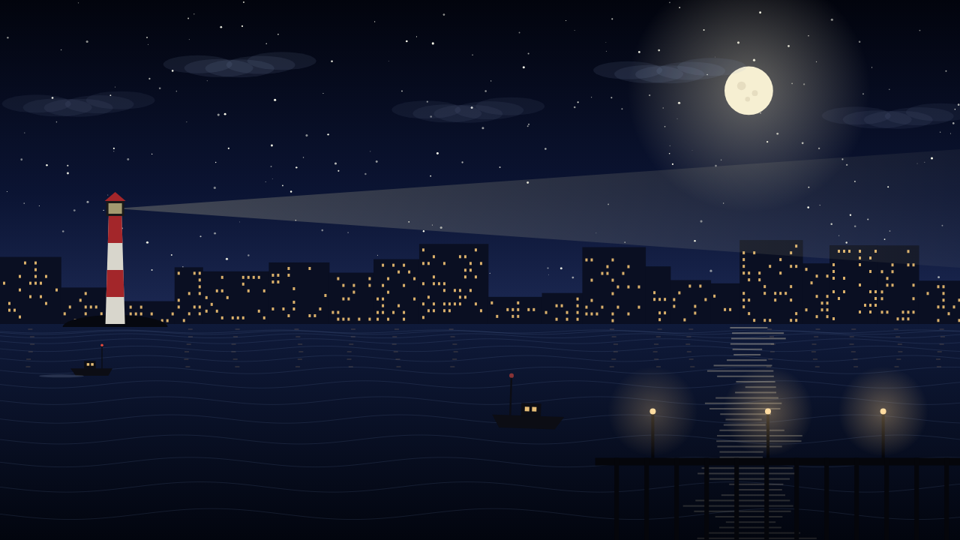
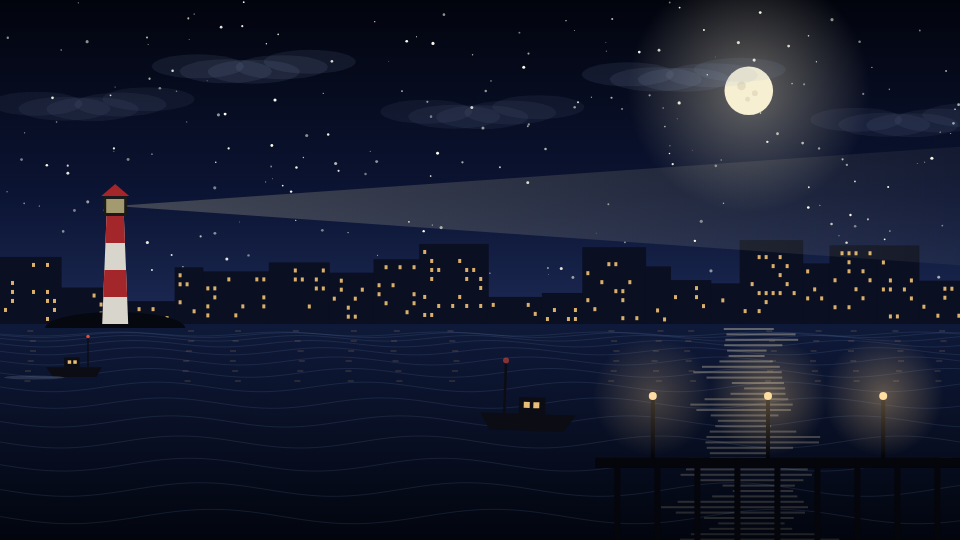
Fix review findings in the art-with-code lesson
- Step 2 builds the harbour in demo/harbour and ends with cd ../.., so
  Step 6's cd demo works when followed literally; Step 6 says where to
  start and spells out the skills check
- setup.sh fetches the pinned commit into a temp folder, verifies it,
  and only then installs, so a failed download leaves nothing behind;
  checks for git; the rerun message deletes only plain/ and with-skill/
- Poster dependencies go in a venv plus librsvg2-bin, replacing the pip
  line that fails on externally managed Pythons
- Warn about the permission prompt for the skill's scripts
- Expected output for the version checks, clone, SKILL.md and setup
- shoot.js runs from any folder, saves t*.png; screenshots regenerated
- Page: Common Grounds, 60-second example, setup in the 5-minute slot,
  canvas colour without color-mix
- Clean up, troubleshooting, cost and source of the JS Paint figures
  corrected; table row lists Node.js and a per-pair cost

Claude-Session: https://claude.ai/code/session_01BvHiUQ3fM3i9QRsMQLsexB

diff --git a/advanced/art-with-code/demo/art-by-code.html b/advanced/art-with-code/demo/art-by-code.html
@@ -115,7 +115,7 @@ svg text { fill: var(--muted); font: 12px var(--mono) }
       <p>Nobody types the art in. You describe a scene and its rules, Claude writes a program, and the program paints every frame. The useful part is what happens next: Claude opens the result in a headless browser (a real browser with no window, driven by a script), takes screenshots, looks at them, and fixes what looks wrong. Without that last step it is coding blind.</p>
     </div>
     <ol class="steps">
-      <li><strong>Set the rules</strong><span>For example: "No image files. Every motion loops every two minutes. Several looks you can switch live." Constraints like these shape the code more than the subject does.</span></li>
+      <li><strong>Set the rules</strong><span>For example: "No image files. Every motion loops every 60 seconds. Several looks you can switch live." Constraints like these shape the code more than the subject does.</span></li>
       <li><strong>Pick the engine</strong><span>Pixel art: a tiny canvas, say 480×270, drawn pixel by pixel in JavaScript and scaled up 4× to fill a 1080p screen. 3D: a shader, a small program the graphics card runs once for every pixel.</span></li>
       <li><strong>Render frozen frames</strong><span>A script opens the page in headless Chromium and saves screenshots of each look. A setting in the address such as <code>?t=30</code> freezes the animation at second 30, so every screenshot is repeatable.</span></li>
       <li><strong>Look and fix</strong><span>Claude reads its own screenshots and names problems a person would: edges look jagged, a colour is too dull, small details are too faint to see. Then it edits and renders again.</span></li>
@@ -253,7 +253,7 @@ const hue    = r() * 360;      // in the same order</pre>
     <div class="head"><span class="kicker">Steering the choices</span><h2>Can a skill fix taste?</h2></div>
     <div class="demo-grid" style="align-items:center">
       <div class="prose">
-        <p>A language model tends to produce what is most likely, given everything it has read. For a creative request, "most likely" means the middle of everything already made: the synthwave sunset poster, the mountain lake, the coffee shop called Daily Grind. It feels right because it's familiar.</p>
+        <p>A language model tends to produce what is most likely, given everything it has read. For a creative request, "most likely" means the middle of everything already made: the synthwave sunset poster, the mountain lake, the coffee shop called Common Grounds. It feels right because it's familiar.</p>
         <p><a href="https://github.com/mankidev/antialgorithm">antialgorithm</a> is a community-made Claude Code skill that tries to push the model off that peak. It doesn't add talent. It adds a procedure:</p>
         <ol>
           <li><b>Name the default.</b> "The default here is X." Then avoid X unless the brief demands it.</li>
@@ -284,8 +284,8 @@ const hue    = r() * 360;      // in the same order</pre>
     <div class="table-scroll"><table>
       <thead><tr><th>Time</th><th>What happens</th></tr></thead>
       <tbody>
-        <tr><td>Before class</td><td>The instructor reads the skill's files and checks it runs on a test machine. Every laptop runs the setup script (below).</td></tr>
-        <tr><td>5 min</td><td>Pairs pick two prompts and write down a predicted winner for each.</td></tr>
+        <tr><td>Before class</td><td>The instructor reads the skill's files and runs the setup on a test machine.</td></tr>
+        <tr><td>5 min</td><td>Everyone runs the setup script (below). Pairs pick two prompts and write down a predicted winner for each.</td></tr>
         <tr><td>20 min</td><td>Both partners run both prompts. Then each partner runs one of the two prompts twice more.</td></tr>
         <tr><td>10 min</td><td>Judge each pair of results with the table, scoring before reading Claude's explanations.</td></tr>
         <tr><td>15 min</td><td>Pool the tallies on the board and discuss.</td></tr>
@@ -445,6 +445,10 @@ void main() {
   const rc = document.getElementById('ridge'), rx = rc.getContext('2d');
   const seedv = document.getElementById('seedv'), seedn = document.getElementById('seedn');
   const mix = (a, b, k) => a.map((v, i) => Math.round(v + (b[i] - v) * k));
+  const hslRgb = (h, s, l) => { // HSL to [r, g, b], so the canvas gets a colour every browser understands
+    const f = (n) => { const k = (n + h / 30) % 12, a = s * Math.min(l, 1 - l); return 255 * (l - a * Math.max(-1, Math.min(k - 3, 9 - k, 1))); };
+    return [f(0), f(8), f(4)];
+  };
   const drawRidge = (seed) => {
     const r = rng(seed), W = rc.width, H = rc.height;
     const hueA = r() * 360, hueB = (hueA + 140 + r() * 80) % 360;
@@ -465,7 +469,7 @@ void main() {
       }
       rx.lineTo(W, H); rx.closePath();
       const c = mix(far, near, Math.pow(k, 0.8));
-      rx.fillStyle = `color-mix(in oklab, rgb(${c}) 82%, hsl(${hueA} 50% 30%))`;
+      rx.fillStyle = `rgb(${mix(hslRgb(hueA, 0.5, 0.3), c, 0.82)})`;
       rx.fill();
     }
   };

diff --git a/advanced/art-with-code/sample-output/harbour/shoot.js b/advanced/art-with-code/sample-output/harbour/shoot.js
@@ -1,19 +1,23 @@
+// Screenshots of harbour.html at t=0, 20, 40 and 60 seconds, saved next to this file.
+// Run with: node shoot.js   (needs Playwright: npm install playwright && npx playwright install chromium)
 const { chromium } = require('playwright');
 const path = require('path');
+const { pathToFileURL } = require('url');
+
 (async () => {
-  const round = process.argv[2] || '1';
-  const b = await chromium.launch();
-  const p = await b.newPage({ viewport: { width: 1280, height: 720 } });
-  const errs = []; p.on('pageerror', e => errs.push(e.message)); p.on('console', m => m.type()==='error' && errs.push(m.text()));
-  const url = 'file://' + path.resolve('harbour.html');
-  const bufs = {};
+  const page_url = pathToFileURL(path.join(__dirname, 'harbour.html')).href;
+  const browser = await chromium.launch();
+  const page = await browser.newPage({ viewport: { width: 960, height: 540 } });
+  const errors = [];
+  page.on('pageerror', (e) => errors.push(e.message));
+  page.on('console', (m) => m.type() === 'error' && errors.push(m.text()));
+  const shots = {};
   for (const t of [0, 20, 40, 60]) {
-    await p.goto(url + '?t=' + t);
-    await p.waitForTimeout(100);
-    const buf = await p.screenshot({ path: t < 60 ? `shot-r${round}-t${t}.png` : `seam-r${round}-t60.png` });
-    bufs[t] = buf;
+    await page.goto(`${page_url}?t=${t}`);
+    await page.waitForTimeout(100);
+    shots[t] = await page.screenshot({ path: path.join(__dirname, `t${t}.png`) });
   }
-  console.log('errors:', errs);
-  console.log('t0 == t60 bytes identical:', Buffer.compare(bufs[0], bufs[60]) === 0);
-  await b.close();
+  console.log('errors:', errors);
+  console.log('t0 == t60 (seamless loop):', Buffer.compare(shots[0], shots[60]) === 0);
+  await browser.close();
 })();

diff --git a/advanced/art-with-code/README.md b/advanced/art-with-code/README.md
@@ -21,7 +21,7 @@ Everything here was run for real on **2026-11-20** with:
 
 `demo/setup.sh` installs exactly that tested commit, `766e304`. The replies quoted below are the real ones from those runs. Yours will not be identical: Claude words things differently each time, and the skill rolls a random starting point on purpose.
 
-**Time:** about 60-90 minutes for the whole topic, or about 50 minutes for the class exercise alone. **Cost:** the two coffee shop runs cost $0.08 (plain) and $0.13 (with the skill). See [What it cost](#what-it-cost).
+**Time:** about 60-90 minutes for the whole topic, or about 50 minutes for the class exercise alone. **Cost:** a short prompt costs about $0.08 to $0.15 of Claude usage, a little more with the skill. Posters and the Step 2 harbour cost more; we didn't measure those. See [What it cost](#what-it-cost).
 
 ## The idea in one paragraph
 
@@ -33,9 +33,23 @@ You need:
 
 - Claude Code, working and logged in.
 - **A browser.** Any recent Chrome, Edge, Firefox or Safari opens the interactive page.
-- **git.** Check with `git --version`.
-- **Python 3** for the skill's scripts. Check with `python3 --version`. For the poster prompt the skill also wants numpy, Pillow and either `rsvg-convert` or the cairosvg package: `python3 -m pip install numpy pillow cairosvg`.
-- **Node.js** if you want to run the starter prompt in Part 1, because Claude uses Playwright, a library for controlling a browser from code, to take its screenshots. Check with `node --version`. Claude Code can install Playwright itself when it needs it.
+- **git**, **Python 3** and, for Step 2, **Node.js**. Check all three:
+
+```bash
+git --version
+python3 --version
+node --version
+```
+
+Expected output (your version numbers may be higher):
+
+```
+git version 2.43.0
+Python 3.13.18
+v22.23.5
+```
+
+If one is missing: git is set up in [week 3](../../weeks/03-git-and-github/), and Node.js in [week 5, step 3d](../../weeks/05-building-with-ai/#3-pick-your-tools). Node.js is only needed for Step 2, where Claude uses Playwright, a library for controlling a browser from code, to take its screenshots. Claude Code can install Playwright itself when it needs it.
 
 On Windows, use WSL.
 
@@ -48,7 +62,15 @@ git clone https://github.com/vasuchettyphd/ai-dev-course.git
 cd ai-dev-course/advanced/art-with-code
 ```
 
-Then open `demo/art-by-code.html` in your browser (double-click it, or drag it into a browser window). On WSL, run `explorer.exe demo/art-by-code.html` to open it in your Windows browser.
+Expected output:
+
+```
+Cloning into 'ai-dev-course'...
+```
+
+(If you already cloned the course earlier in the semester, run `git pull` inside it instead, then `cd advanced/art-with-code`.)
+
+Then open `demo/art-by-code.html` in your browser (double-click it, or drag it into a browser window). On WSL, run `explorer.exe demo/art-by-code.html` to open it in your Windows browser; it prints nothing, and the page opens in your default browser.
 
 It works offline. The only thing it fetches is its fonts; without a connection it falls back to your system fonts. The planet needs WebGL, which every current browser has. If your browser has it turned off, the page says so and the rest still works.
 
@@ -56,13 +78,15 @@ It works offline. The only thing it fetches is its fonts; without a connection i
 
 Nobody types the art in. You describe a scene and its rules, Claude writes a program, and the program paints every frame. The important part is what comes next: Claude opens the page in a *headless* browser (a real browser with no window, driven by a script), takes screenshots, looks at them and fixes what's wrong. Without that, it is coding blind.
 
-Try it. Make a folder and start Claude Code there:
+Try it. From `advanced/art-with-code`, make a folder and start Claude Code there:
 
 ```bash
-mkdir -p demo/practice/harbour
-cd demo/practice/harbour
+mkdir -p demo/harbour
+cd demo/harbour
 claude
 ```
+
+(`demo/harbour/` is ignored by git, so your harbour stays out of the course repo.)
 
 Then paste this prompt:
 
@@ -81,7 +105,15 @@ What happened in our run, which took two rounds:
 - **Round 1:** no errors, and the t=60 screenshot matched t=0 byte for byte, so the loop was seamless. But two things looked frozen. The lighthouse beam turned exactly 6 times a minute, once every 10 seconds, so it pointed the same way at 0, 20 and 40 seconds. The clouds were spaced a third of the screen apart and moved a third every 20 seconds, so they looked the same too. Claude changed the beam to 5 turns a minute and spaced the clouds unevenly.
 - **Round 2:** the beam and clouds now differ between shots, and the loop check still passed.
 
-The result is in `sample-output/harbour/`: the page (`harbour.html`, about 10 KB), the screenshot script Claude wrote (`shoot.js`), and the screenshots at t=0, 20, 40 and 60. Notice that `t0.png` and `t60.png` are the same picture. Your harbour will look different.
+The result is in `sample-output/harbour/`: the page (`harbour.html`, about 10 KB), the screenshot script Claude wrote (`shoot.js`, tidied so it runs from any folder), and the four 960 × 540 screenshots it saves, `t0.png`, `t20.png`, `t40.png` and `t60.png`. Notice that `t0.png` and `t60.png` are the same picture. Your harbour will look different.
+
+When you're done, type `/exit` to leave Claude Code, then go back to the lesson folder:
+
+```bash
+cd ../..
+```
+
+You are now in `advanced/art-with-code` again.
 
 ## Step 3: seeds and loops
 
@@ -136,11 +168,11 @@ What made the real runs work, and what they cost:
 - **A locked box.** The paint program ran in Docker with no network, as a user with no special permissions. Shortcuts that would close or reload the page were refused by the driver.
 - **A spending cap.** Every screenshot costs *tokens*, the units the API bills by. The loop counted dollars from each reply and stopped before a set limit.
 - **Notes instead of memory.** After about 30 screenshots the conversation gets heavy, so Claude wrote notes to itself and a fresh conversation started from them, with the canvas kept.
-- **The numbers.** Real runs took 58 to 707 strokes, 7 to 26 minutes and $0.46 to $4.07.
+- **The numbers.** Three runs of the instructor's own JS Paint project (not part of this course) took 58 to 707 strokes, 7 to 26 minutes and $0.46 to $4.07.
 
 You don't run this one: it needs an Anthropic API key with credit, Docker and a custom driver. The point is to see a different way of working. Code is fast and cheap but needs a program; computer use is slow and costly but works with any app a person can use.
 
-One more thing to notice. Asked for a masterpiece with no other direction, separate runs on different models all painted the same subject: a sunset over a mountain lake. The sample replay paints one too. That is the "average pick" the next step is about.
+One more thing to notice. Asked for a masterpiece with no other direction, those runs, on two different Claude models, all painted the same subject: a sunset over a mountain lake. The sample replay paints a sunset too. That is the "average pick" the next step is about.
 
 ## Step 6: the antialgorithm skill, with and without
 
@@ -156,7 +188,7 @@ A language model tends to produce what is most likely, given everything it has r
 
 ### Setup
 
-The setup script makes two empty practice folders and installs the skill into one of them only:
+The setup script makes two empty practice folders and installs the skill into one of them only. From `advanced/art-with-code`:
 
 ```bash
 cd demo
@@ -171,12 +203,24 @@ Ready:
   /home/you/ai-dev-course/advanced/art-with-code/demo/practice/with-skill   (antialgorithm 766e304 in .claude/skills/antialgorithm/)
 ```
 
-A skill in a folder's `.claude/skills/` is only visible to Claude Code sessions started in that folder, so `plain/` never sees it. Upstream's own install command, `git clone https://github.com/mankidev/antialgorithm ~/.claude/skills/antialgorithm`, puts it in your user-wide skills folder instead, where every session on your computer would get it, plain ones included. Don't use that for this exercise.
+The script downloads the exact tested commit and checks it before installing anything; if the download fails, it stops and leaves nothing behind. A skill in a folder's `.claude/skills/` is only visible to Claude Code sessions started in that folder, so `plain/` never sees it. Upstream's own install command, `git clone https://github.com/mankidev/antialgorithm ~/.claude/skills/antialgorithm`, puts it in your user-wide skills folder instead, where every session on your computer would get it, plain ones included. Don't use that for this exercise.
 
 **Read the skill before you use it.** It runs Python scripts on your computer, so look first:
 
 ```bash
 cat practice/with-skill/.claude/skills/antialgorithm/SKILL.md
+```
+
+The first lines (the rest is about 100 lines of plain English):
+
+```
+---
+name: antialgorithm
+description: 'Stops the safe, average, comfortable pick that AI reaches for first. ...
+---
+```
+
+```bash
 ls practice/with-skill/.claude/skills/antialgorithm/scripts
 ```
 
@@ -184,15 +228,54 @@ ls practice/with-skill/.claude/skills/antialgorithm/scripts
 check.py  history.py  moves.py  rough.py  seed.py
 ```
 
-We read all five scripts. They only read and write files inside the skill's own folder and a temporary folder, render SVGs, and make no network calls.
+We read all five scripts. They make no network calls and nothing runs until Claude calls them. `seed.py` and `moves.py` keep a small `history.jsonl` inside the skill's folder; `check.py` renders SVGs into your system's temporary folder (under `antialgorithm_check/`) and calls the `rsvg-convert` program if you have it.
 
-**Check that it loaded.** Start Claude Code in each folder and ask:
+**For the poster prompt only**, `check.py` also needs numpy, Pillow and `rsvg-convert`. Install them in a virtual environment (a private Python folder for this lesson) so nothing changes system-wide. From `demo/`, on WSL or Ubuntu:
+
+```bash
+python3 -m venv .venv
+. .venv/bin/activate
+pip install numpy pillow
+sudo apt update && sudo apt install -y librsvg2-bin
+```
+
+On a Mac, use `brew install librsvg` for the last line (we did not test the Mac route). Check it worked:
+
+```bash
+python3 -c "import numpy, PIL; print('ok')"
+rsvg-convert --version
+```
+
+```
+ok
+rsvg-convert version 2.58.0
+```
+
+Run `. .venv/bin/activate` again in any new terminal before you start `claude` for a poster, so Claude's `python3` finds those packages.
+
+**Check that it loaded.** From `demo/`, start Claude Code in the skill folder:
+
+```bash
+cd practice/with-skill
+claude
+```
+
+Ask:
 
 ```
 Which skills do you have available? List their names only, one per line.
 ```
 
-In `practice/with-skill`, the list includes `antialgorithm`. In `practice/plain`, it does not. (Both lists also show the skills that come with Claude Code.)
+The list includes `antialgorithm`, along with any other skills you already have. Type `/exit`, then try the plain folder:
+
+```bash
+cd ../plain
+claude
+```
+
+Ask the same question. This time `antialgorithm` is not in the list. Type `/exit` and go back with `cd ../..` (you are in `demo/` again).
+
+**Expect a permission question.** In `with-skill`, Claude will ask to run the skill's scripts, for example `python3 .claude/skills/antialgorithm/scripts/seed.py visual`. You read those scripts above, so choose to allow it. If you say no, the skill still works but makes up its own starting point instead of rolling one.
 
 ### One run, for real
 
@@ -224,7 +307,7 @@ The skill's procedure is visible in the reply: it named the default it was avoid
 
 ### The class exercise (about 50 minutes)
 
-Work in pairs. One person is **Plain** and works in `practice/plain`; the other is **Skill** and works in `practice/with-skill`. You both give the same prompts, then put the results side by side, labelled, and judge them together. This is not a blind test, so each pair first writes down which side they expect to win; that shows the class its own bias.
+Work in pairs. One person is **Plain** and starts `claude` in `demo/practice/plain`; the other is **Skill** and starts `claude` in `demo/practice/with-skill`. Both run `./setup.sh` on their own laptop first. You both give the same prompts, then put the results side by side, labelled, and judge them together. This is not a blind test, so each pair first writes down which side they expect to win; that shows the class its own bias.
 
 | Time | What happens |
 |---|---|
@@ -292,7 +375,7 @@ Rows 1 and 2 and the surprise score only measure "different". "Does it do its jo
 | Coffee shop, plain | $0.08 | 3 s |
 | Coffee shop, with the skill | $0.13 | 10 s |
 
-The skill run cost more because it reads its instructions and runs its seed script before answering. Posters cost more on both sides, and the skill side most, because it renders and checks the SVG. We did not measure the starter prompt in Step 2 with Claude Code's cost counter: type `/cost` in your session afterwards to see yours. The class exercise is about 10 to 14 runs per pair.
+A student re-running the same two prompts got $0.08 and $0.15. The skill run costs more because it reads its instructions and runs its seed script before answering. Posters cost more on both sides, and the skill side most, because it renders and checks the SVG; we did not measure those, or the Step 2 harbour, with Claude Code's cost counter. Type `/cost` in your session afterwards to see yours. The class exercise is about 10 to 14 runs per pair, so with short prompts expect roughly $1 to $2 per pair, more if one prompt is a poster.
 
 ## Limits and caveats
 
@@ -304,9 +387,10 @@ The skill run cost more because it reads its instructions and runs its seed scri
 
 ## Troubleshooting
 
-- **`setup.sh` says `practice already has plain/ or with-skill/`.** You ran it before. Delete the old folders with `rm -rf practice` (from `demo/`) and run it again.
+- **`setup.sh` says `.../demo/practice already has plain/ or with-skill/. Delete them first: rm -rf ...`.** You ran it before. Run the `rm -rf` command it prints (it deletes only those two folders), then run `./setup.sh` again.
+- **`setup.sh` says `Could not download antialgorithm commit 766e304`.** Check your internet connection and try again. If it keeps failing, tell your instructor: the commit may have been removed upstream.
 - **`with-skill` doesn't list antialgorithm.** Make sure you started `claude` inside `demo/practice/with-skill`, not a parent folder, and that `.claude/skills/antialgorithm/SKILL.md` exists there.
-- **The poster run fails at `check.py`.** Install the Python packages: `python3 -m pip install numpy pillow cairosvg`.
+- **The poster run fails at `check.py`.** Set up the virtual environment from Step 6 and run `. .venv/bin/activate` before starting `claude`. If `pip install` said `externally-managed-environment`, you skipped the `python3 -m venv .venv` line.
 - **The planet on the page says WebGL isn't available.** Turn on hardware acceleration in your browser's settings, or try another browser. The rest of the page works without it.
 - **Claude says it can't take screenshots in Step 2.** Let it install Playwright when it asks (`npm install playwright` and `npx playwright install chromium`).
 
@@ -315,10 +399,10 @@ The skill run cost more because it reads its instructions and runs its seed scri
 From `demo/`:
 
 ```bash
-rm -rf practice
+rm -rf practice harbour .venv
 ```
 
-That removes both practice folders and the skill copy inside `with-skill`. Nothing was installed anywhere else.
+That removes both practice folders with the skill copy inside `with-skill`, your Step 2 harbour (copy it somewhere else first if you want to keep it) and the Python virtual environment. Three things live outside this folder: the renders `check.py` left in your temporary folder (under `antialgorithm_check/`, cleared when your computer restarts), the `librsvg2-bin` package if you installed it (`sudo apt remove librsvg2-bin`), and Playwright's browser if Claude installed it in Step 2.
 
 ## Files
 
@@ -326,7 +410,7 @@ That removes both practice folders and the skill copy inside `with-skill`. Nothi
 |---|---|
 | `demo/art-by-code.html` | The interactive page: build loop, seeds, the shader planet, the computer use replay and the exercise |
 | `demo/setup.sh` | Makes `practice/plain` and `practice/with-skill` and installs antialgorithm `766e304` into the second only |
-| `sample-output/harbour/` | The starter prompt's result: `harbour.html`, Claude's screenshot script `shoot.js`, and screenshots at t=0, 20, 40 and 60 |
+| `sample-output/harbour/` | The starter prompt's result: `harbour.html`, its screenshot script `shoot.js` (run `node shoot.js` to retake them), and the 960 × 540 screenshots `t0.png`, `t20.png`, `t40.png` and `t60.png` |
 | `sample-output/poster/` | The festival poster with and without the skill, and a side-by-side image |
 
 ## Where to read more

diff --git a/README.md b/README.md
@@ -73,7 +73,7 @@ Each one stands alone. Sessions 11 and 12 teach the seven add-ins tour, the Word
 | [Wordle agent](advanced/wordle-agent/) | Build an agent with one tool and a validator it can't fake | Python 3.10+, an Anthropic or OpenAI API key (no cost figure given, check your provider's usage page after a game) |
 | [`/grill-me` and Superpowers in depth](advanced/grill-me-superpowers/) | The full rental deal screener walkthrough | Claude Code |
 | [Beads](advanced/beads/) | Keep an agent's task list across sessions (optional in week 5) | Python 3.10+, git, Claude Code (about $1-2 of model usage) |
-| [Art with code](advanced/art-with-code/) | How Claude makes pictures with code, shaders and a mouse, and whether the antialgorithm skill makes it more creative | A browser, git, Python 3, Claude Code (a few cents a prompt; a poster costs more) |
+| [Art with code](advanced/art-with-code/) | How Claude makes pictures with code, shaders and a mouse, and whether the antialgorithm skill makes it more creative | A browser, git, Python 3, Node.js (for one step), Claude Code (about $1-2 per pair for the class exercise) |
 
 ### Seven add-ins tour
 
